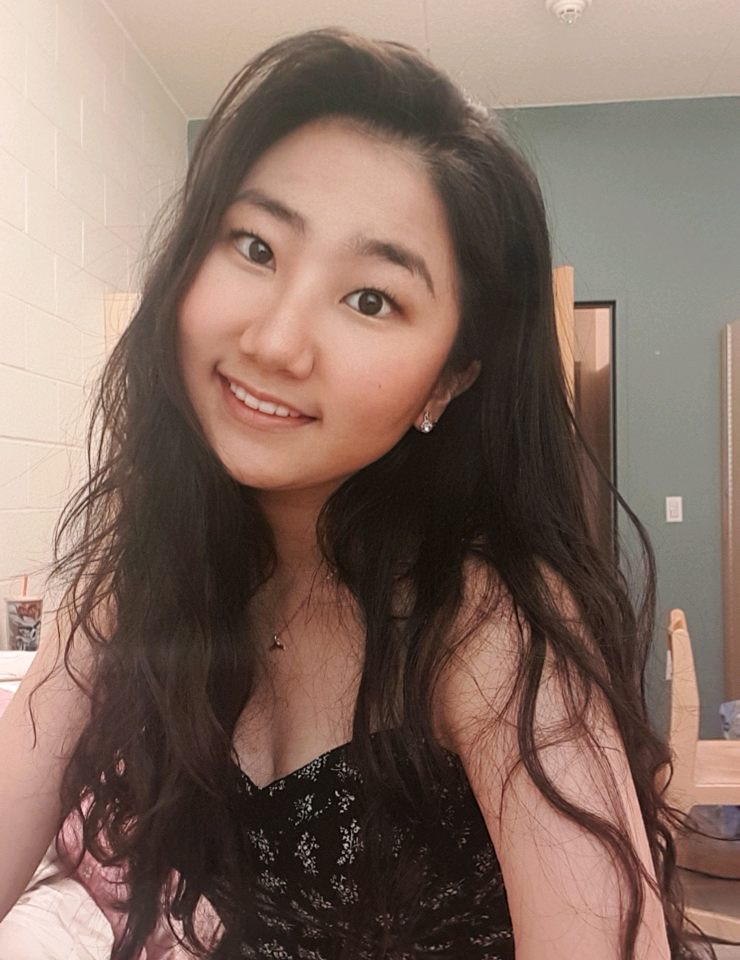
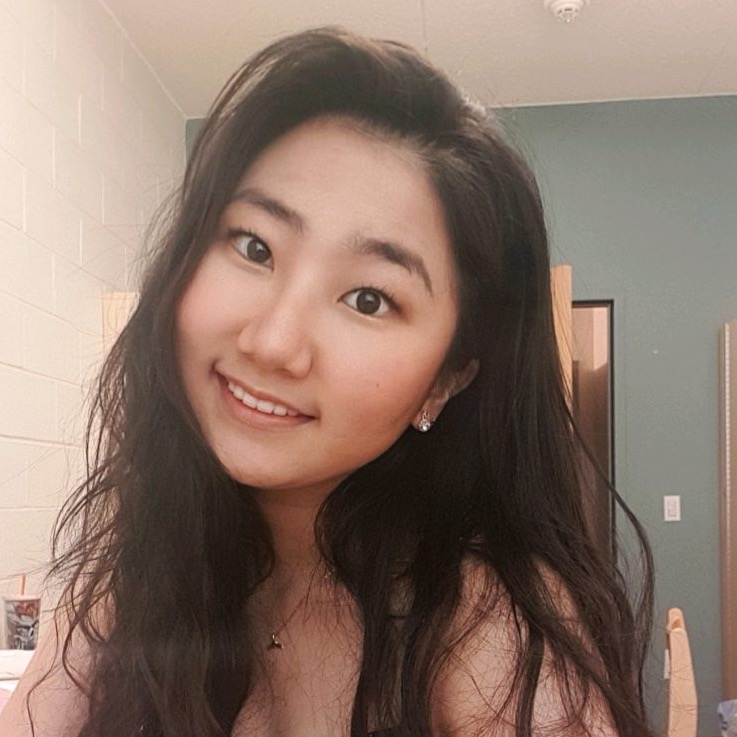
updated taksh photo

diff --git a/about.html b/about.html
@@ -22,7 +22,7 @@
     
     <nav class="navbar navbar-expand-lg navbar-dark bg-primary">
             <div class="container">
-            <a class="navbar-brand" href="index.html">Tracking COVID-19</a>
+            <a class="navbar-brand" href="index.html">Predicting COVID-19</a>
             <button class="navbar-toggler" type="button" data-toggle="collapse" data-target="#navbarSupportedContent" aria-controls="navbarSupportedContent" aria-expanded="false" aria-label="Toggle navigation">
             <span class="navbar-toggler-icon"></span>
         </button>
@@ -59,7 +59,8 @@
       <!-- Team Member 1 -->
       <div class="col-xl-3 col-md-6 mb-4">
         <div class="card border-0 shadow">
-            <img src="images/Luhan-yang.jpg" class="card-img-top" alt="..." height="250" width="400">          <div class="card-body text-center">
+            <img src="images/Luhan-yang.jpg" class="card-img-top" alt="..." height="250" width="400">          
+            <div class="card-body text-center">
             <h5 class="card-title mb-0">Luhan Yang</h5>
             <div class="card-text text-black-50">Team Lead/Data Processor</div>
           </div>
@@ -68,7 +69,8 @@
       <!-- Team Member 2 -->
       <div class="col-xl-3 col-md-6 mb-4">
         <div class="card border-0 shadow">
-            <img src="images/chaewon-chun.jpeg" class="card-img-top" alt="..." height="250" width="400">          <div class="card-body text-center">
+            <img src="images/chaewon-chun.jpeg" class="card-img-top" alt="..." height="250" width="400">          
+            <div class="card-body text-center">
             <h5 class="card-title mb-0">Chaewon Chun</h5>
             <div class="card-text text-black-50">Statistician</div>
           </div>
@@ -77,7 +79,8 @@
       <!-- Team Member 3 -->
       <div class="col-xl-3 col-md-6 mb-4">
         <div class="card border-0 shadow">
-            <img src="images/john-mccreery.jpeg" class="card-img-top" alt="..." height="250" width="400">          <div class="card-body text-center">
+            <img src="images/john-mccreery.jpeg" class="card-img-top" alt="..." height="250" width="400">          
+            <div class="card-body text-center">
             <h5 class="card-title mb-0">John McCreery</h5>
             <div class="card-text text-black-50">Researcher</div>
           </div>
@@ -86,7 +89,8 @@
       <!-- Team Member 4 -->
       <div class="col-xl-3 col-md-6 mb-4">
         <div class="card border-0 shadow">
-            <img src="images/robert-hsu.png" class="card-img-top" alt="..." height="250" width="400">          <div class="card-body text-center">
+            <img src="images/robert-hsu.png" class="card-img-top" alt="..." height="250" width="400">          
+            <div class="card-body text-center">
             <h5 class="card-title mb-0">John Hofbauer</h5>
             <div class="card-text text-black-50">Web Developer</div>
           </div>
@@ -95,7 +99,7 @@
     <!-- Team Member 5 -->
     <div class="col-xl-3 col-md-6 mb-4">
         <div class="card border-0 shadow">
-            <img src="images/josh-barrientos.png" class="card-img-top" alt="..." height="250">            
+            <img src="images/josh-barrientos.png" class="card-img-top" alt="..." height="250" width="400">            
             <div class="card-body text-center">
             <h5 class="card-title mb-0">Josh Barrientos</h5>
             <div class="card-text text-black-50">Web Developer</div>
@@ -114,9 +118,10 @@
             </div>
                 <!-- Team Member 7 -->
     <div class="col-xl-3 col-md-6 mb-4">
-    <div class="card border-0 shadow">
-        <img src="images/robert-hsu.png" class="card-img-top" alt="..." height="250" width="400">        <div class="card-body text-center">
-        <h5 class="card-title mb-0">Taksh</h5>
+    <div class="card border-0 shadow" height="250" width="400">
+        <img src="images/taksh.jpeg" class="card-img-top" alt="..." >        
+        <div class="card-body text-center">
+        <h5 class="card-title mb-0">Taksh Anand</h5>
         <div class="card-text text-black-50">Researcher</div>
         </div>
     </div>
@@ -124,7 +129,8 @@
         <!-- Team Member 8 -->
         <div class="col-xl-3 col-md-6 mb-4">
             <div class="card border-0 shadow">
-                <img src="images/timothy-maga.JPG" class="card-img-top" alt="..." height="250" width="400">                <div class="card-body text-center">
+                <img src="images/timothy-maga.JPG" class="card-img-top" alt="..." height="250" width="400"> 
+                <div class="card-body text-center">
                 <h5 class="card-title mb-0">Timothy Maga</h5>
                 <div class="card-text text-black-50">Data Processor</div>
                 </div>

diff --git a/index.html b/index.html
@@ -4,8 +4,8 @@
 <head>
     <meta charset="utf-8">
     
-    <title>Track COVID-19</title>
-    <meta name="description" content="Tracking COVID-19">
+    <title>Predicting COVID-19</title>
+    <meta name="description" content="Predicting COVID-19">
     <meta name="author" content="465-EC-Team">
     
     <link rel="stylesheet" href="https://stackpath.bootstrapcdn.com/bootstrap/4.4.1/css/bootstrap.min.css" integrity="sha384-Vkoo8x4CGsO3+Hhxv8T/Q5PaXtkKtu6ug5TOeNV6gBiFeWPGFN9MuhOf23Q9Ifjh" crossorigin="anonymous">    
@@ -22,7 +22,7 @@
 <body>
     <nav class="navbar navbar-expand-lg navbar-dark bg-primary">
         <div class="container">
-            <a class="navbar-brand" href="index.html">Tracking COVID-19</a>
+            <a class="navbar-brand" href="index.html">Predicting COVID-19</a>
             <button class="navbar-toggler" type="button" data-toggle="collapse" data-target="#navbarSupportedContent" aria-controls="navbarSupportedContent" aria-expanded="false" aria-label="Toggle navigation">
             <span class="navbar-toggler-icon"></span>
         </button>
@@ -45,11 +45,5 @@
             </div>
         </div>
         </nav>
-    <div>
-    <img src="images/home-page.jpg" class="img-fluid" alt="Responsive image">
-    </div>
-    <p class="note note-primary"><strong>Note primary:</strong> Lorem, ipsum dolor sit amet consectetur adipisicing
-        elit. Cum doloremque officia laboriosam. Itaque ex obcaecati architecto! Qui necessitatibus delectus placeat
-        illo rem id nisi consequatur esse, sint perspiciatis soluta porro?</p>
 </body>
 </html>

diff --git a/findings.html b/findings.html
@@ -22,7 +22,7 @@
 <body>
     <nav class="navbar navbar-expand-lg navbar-dark bg-primary">
         <div class="container">
-            <a class="navbar-brand" href="index.html">Tracking COVID-19</a>
+            <a class="navbar-brand" href="index.html">Predicting COVID-19</a>
             <button class="navbar-toggler" type="button" data-toggle="collapse" data-target="#navbarSupportedContent" aria-controls="navbarSupportedContent" aria-expanded="false" aria-label="Toggle navigation">
             <span class="navbar-toggler-icon"></span>
         </button>

diff --git a/research.html b/research.html
@@ -22,7 +22,7 @@
 <body>
     <nav class="navbar navbar-expand-lg navbar-dark bg-primary">
         <div class="container">
-            <a class="navbar-brand" href="index.html">Tracking COVID-19</a>
+            <a class="navbar-brand" href="index.html">Predicting COVID-19</a>
             <button class="navbar-toggler" type="button" data-toggle="collapse" data-target="#navbarSupportedContent" aria-controls="navbarSupportedContent" aria-expanded="false" aria-label="Toggle navigation">
             <span class="navbar-toggler-icon"></span>
         </button>
